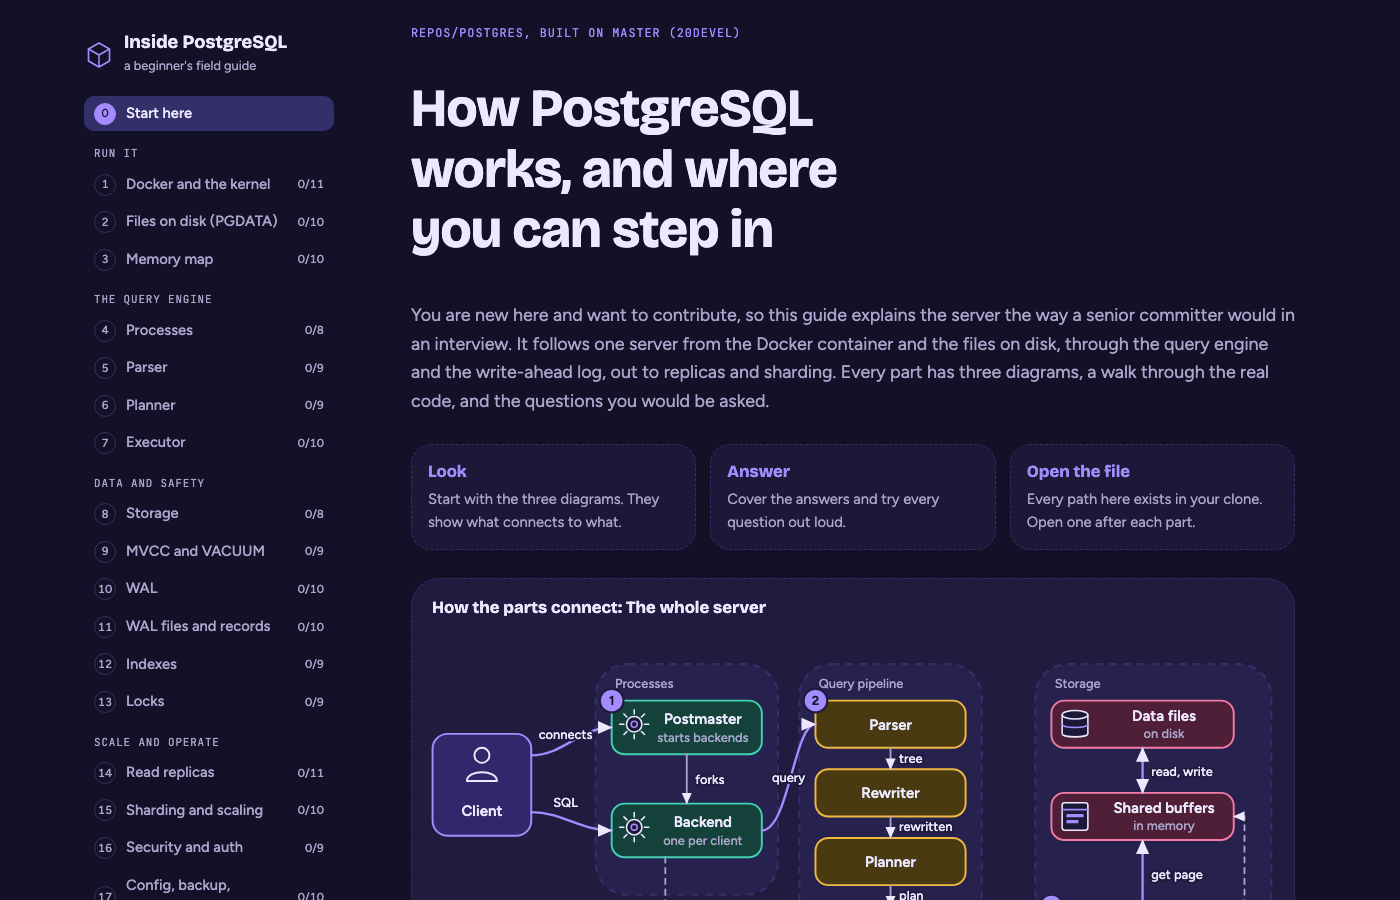
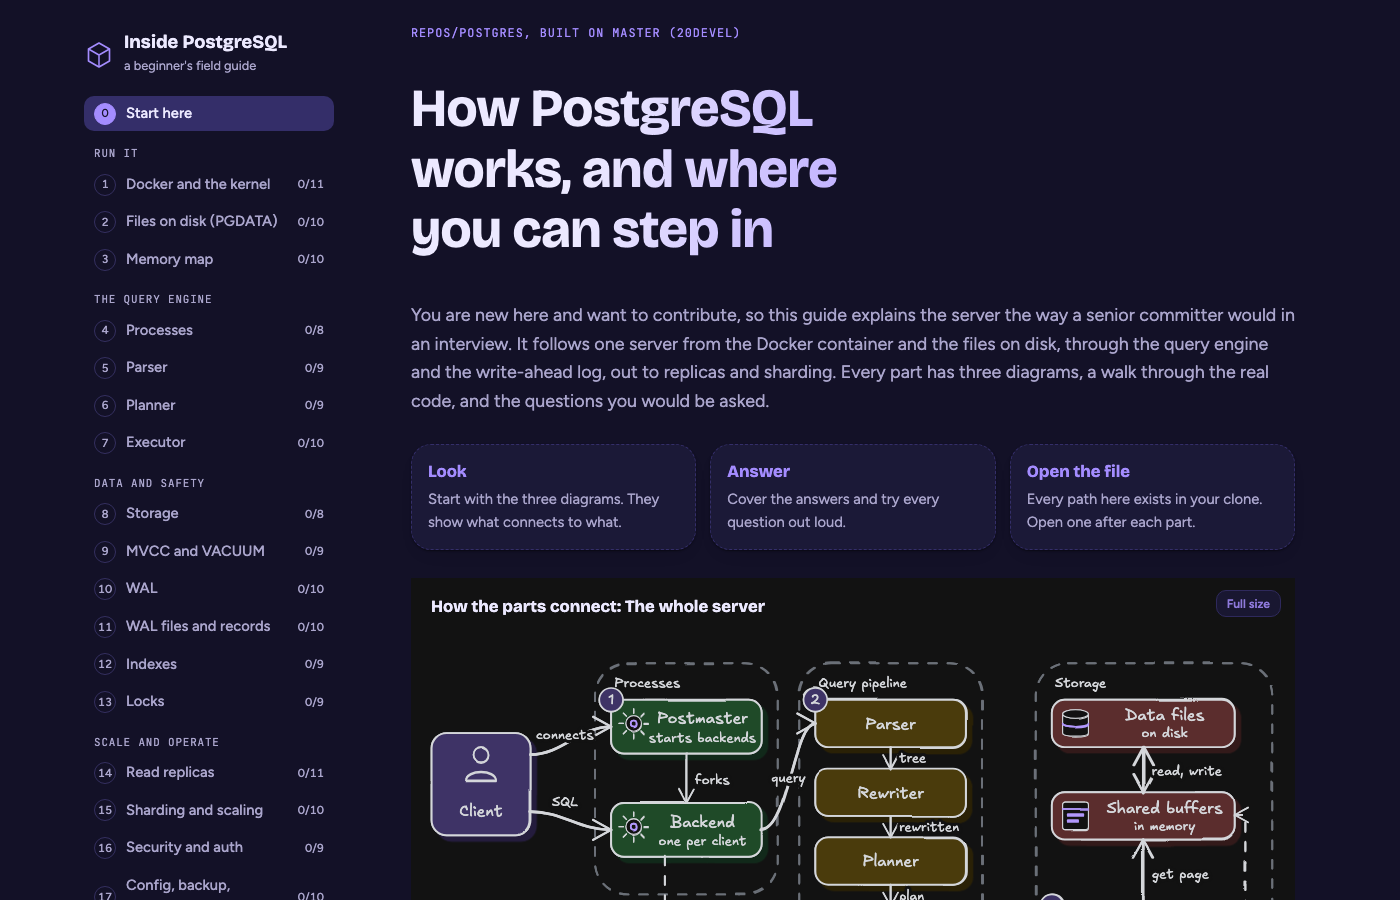
Update README and screenshots for diagram styles and catalog

diff --git a/README.md b/README.md
@@ -1,12 +1,15 @@
 # explorer
 
-Turn any codebase or system into an interactive beginner field guide: hand-drawn SVG diagrams, a walk through the real files, tables that scroll inside the page, and interview questions you can tick off. Built as a Claude Code skill.
+Turn any codebase or system into an interactive beginner field guide: SVG diagrams in the form that fits each idea (90 diagram types, hand-drawn or clean, with real logos), a walk through the real files, tables that scroll inside the page, and interview questions you can tick off. Built as a Claude Code skill.
 
 ![The generated page](docs/img/hero.png)
 
 ## What you get
 
-- Three hand-drawn SVG diagrams per topic: how it connects, a numbered lifecycle, and the anatomy.
+- Three SVG diagrams per topic: how it connects, a numbered lifecycle, and the anatomy, each drawn as the type that fits (a layer diagram for tiers, a sequence diagram for calls, an ERD for tables...).
+- Two diagram styles from the same SVG, switchable on the page: **hand-drawn** line art and **clean** FigJam-like canvas.
+- Real product logos in diagrams through [logo.dev](https://logo.dev), with a monogram fallback when there is no key.
+- A [catalog of 90 diagram types](diagram-types/README.md), each with an example SVG, both renders and a guide.
 - A step-by-step walk through the real code with file and function names.
 - Tables sized by content, scrolling inside the page, with a sticky header.
 - 8 to 10 interview questions per topic with simple answers and a common trap.
@@ -17,6 +20,22 @@ Turn any codebase or system into an interactive beginner field guide: hand-drawn
 | ![architecture](docs/img/diagram-architecture.png) | ![lifecycle](docs/img/diagram-lifecycle.png) |
 
 ![A scrolling table](docs/img/table.png)
+
+## Diagram types
+
+![Layered architecture, clean style](diagram-types/software/layered-architecture/clean.jpg)
+
+[`diagram-types/`](diagram-types/README.md) has one folder per type (org charts to sequence diagrams, ERDs, journey maps, Gantt charts, tech stack mapping), each with `example.svg`, `hand.jpg`, `clean.jpg` and a README covering when to use it and its anatomy. The skill reads [`references/diagram-types.md`](skills/codebase-explorer/references/diagram-types.md) to pick the right form for each diagram.
+
+## Logos
+
+Diagrams that name real products use logo slots (`<image class="d-logo" data-logo="postgresql.org">`). To fill them, get a free publishable key at [logo.dev](https://logo.dev) and keep it outside the repo:
+
+```bash
+mkdir -p ~/.config/explorer && printf 'LOGO_DEV_TOKEN=%s\n' 'pk_...' > ~/.config/explorer/logo-dev.env
+```
+
+Logos are fetched once, cached in `~/.cache/explorer-logos`, and inlined as data URIs, so pages work offline. Without a key each slot becomes a monogram, and so does a project under a foundation domain such as `kafka.apache.org`, because Logo.dev answers those with the foundation's logo. The build warns when two domains return the same image. When the skill needs logos and no key is set, it asks you for one. Logos by [Logo.dev](https://logo.dev); they belong to their owners (see License).
 
 ## Install the skill
 
@@ -47,20 +66,29 @@ open examples/postgres/page.html
 skills/codebase-explorer/
   SKILL.md                 the skill (pipeline, quality bar, gotchas)
   scripts/build-page.js    JSON + SVG -> one HTML page (no dependencies)
-  scripts/render.sh        look at diagrams and sections in headless Chrome
+  scripts/render.sh        look at diagrams (hand or clean, png or jpg) and sections in headless Chrome; --catalog re-renders the gallery
+  scripts/compare.sh       a reference image and our render side by side, to check a diagram against the look it copies
+  scripts/logos.js         fill logo slots from logo.dev, monogram fallback
+  scripts/build-catalog.js regenerate the diagram-type gallery and chooser
   scripts/layout.js        automatic diagram fallback
-  assets/                  style.css (page and diagram kit), app.js, icons.md
-  references/              topic schema, diagram guide, Workflow template
+  assets/                  style.css (page and diagram kit), app.js, icons.md, fonts/ (Excalifont license)
+  references/              topic schema, diagram guide, diagram kit, diagram-type chooser, Workflow template
+diagram-types/             90 diagram types: example SVG, hand.jpg, clean.jpg, README
 examples/postgres/         a complete guide to learn from
 docs/how-it-works.md       how the diagrams and facts were produced
 ```
 
 ## Requirements
 
-Node 18+, Google Chrome for previews (`CHROME=/path/to/chrome` to override). Publishing and the multi-agent workflow use Claude Code's Artifact and Workflow tools.
+Node 18+, Google Chrome for previews (`CHROME=/path/to/chrome` to override). `.jpg` renders also need `sips` (built into macOS) or ImageMagick (`magick`); `.png` renders need neither. `compare.sh` needs `uv`. Publishing and the multi-agent workflow use Claude Code's Artifact and Workflow tools.
 
 ## Honesty note
 
 The example's facts were read from the PostgreSQL source and checked by a second pass, and many commands were run against Homebrew PostgreSQL 16. The guide says so, and says which commands were not run. Function names move between releases, so confirm against the version you build.
 
-MIT licensed.
+## License
+
+The code and docs are MIT licensed. Two things inside the repo are not:
+
+- The hand-drawn style inlines a Latin subset of Excalifont, Copyright (c) 2024 by Excalidraw, under the SIL Open Font License 1.1. Every built page carries it, so keep [`assets/fonts/Excalifont-OFL.txt`](skills/codebase-explorer/assets/fonts/Excalifont-OFL.txt) with any copy.
+- Product logos in the diagrams and in the committed `diagram-types` renders are provided by [Logo.dev](https://logo.dev). They are trademarks of their owners, used only to name the products a diagram shows, and are not covered by the MIT license.
